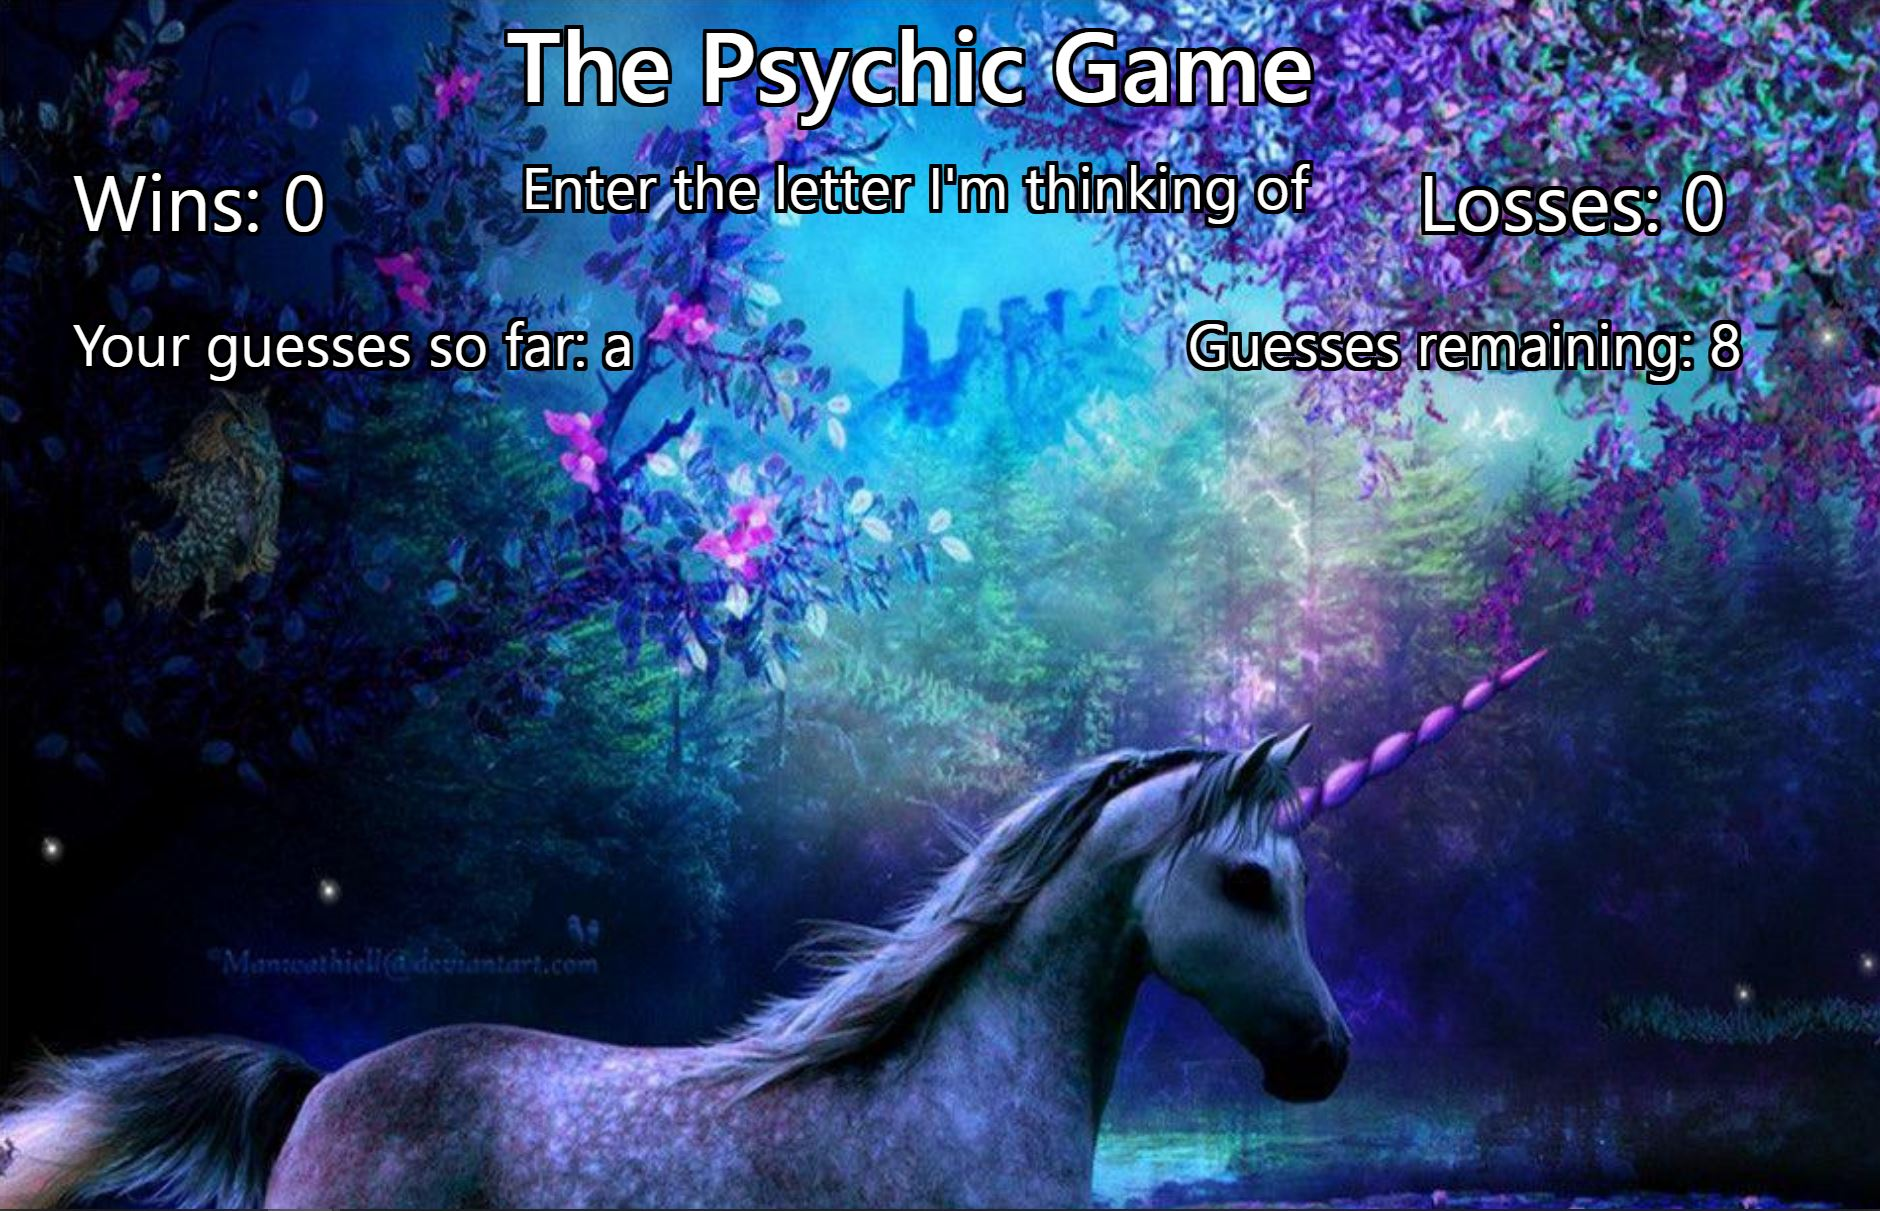
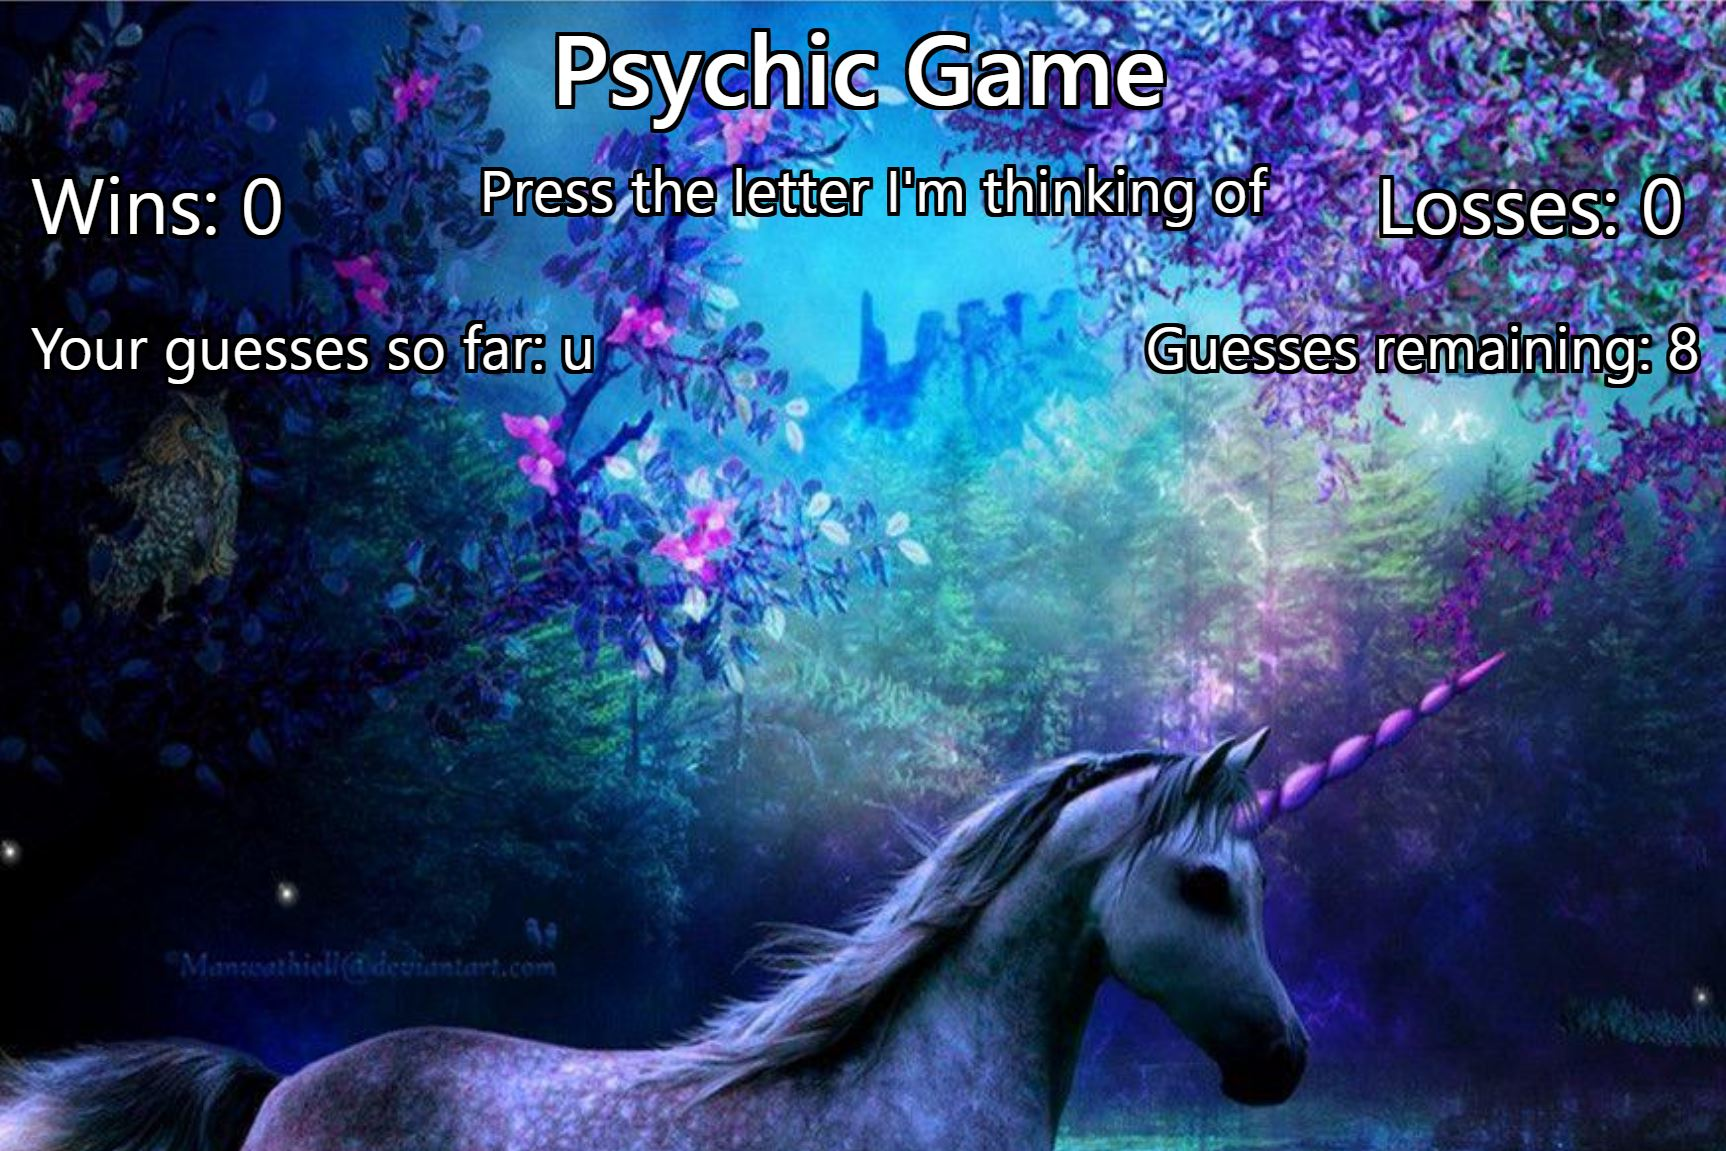
Corrected Read Me typo, readability & update image

diff --git a/README.md b/README.md
@@ -2,10 +2,10 @@
 This is a front end web application built with Bootstrap & JavaScript.
 
 # How to use
-Guess the letter the psychic is thinking of within 9 chances by press a different letter each time on your keyboard.  If you guess correctly, your wins increase by 1, and the game begins the next round.  If the psychic wins, your losses increase by 1, and the game also begins the next round.
+Guess the letter the psychic is thinking of within 9 chances by pressing a different letter each time on your keyboard.  If you guess correctly, your wins increase by 1, and the game begins the next round.  If the psychic wins, your losses increase by 1, and the game also begins the next round.
 
 # Future enhancements
-Limit keys entered to only letters
+Limit registered key presses to letters only
 
 ![alt text](./assets/images/psychicGame.JPG "Psychic Game")
 
